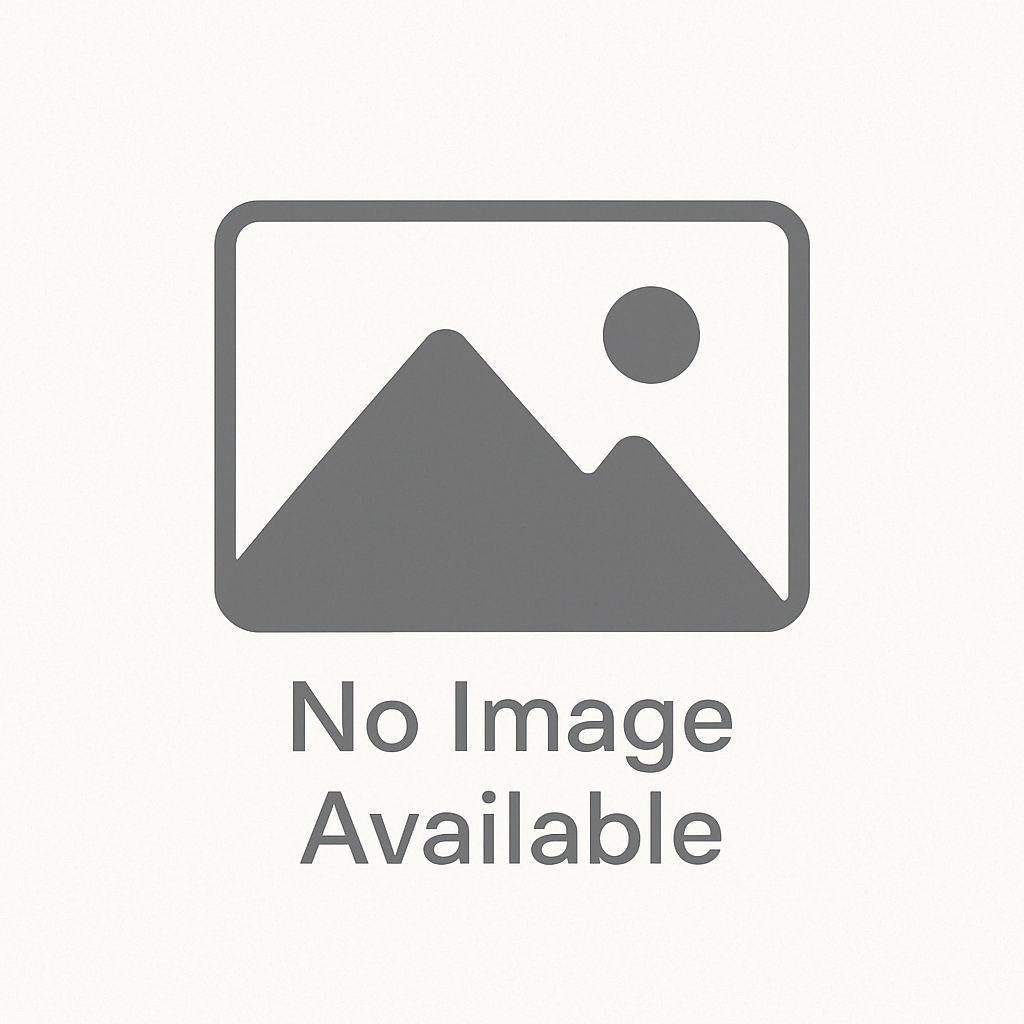
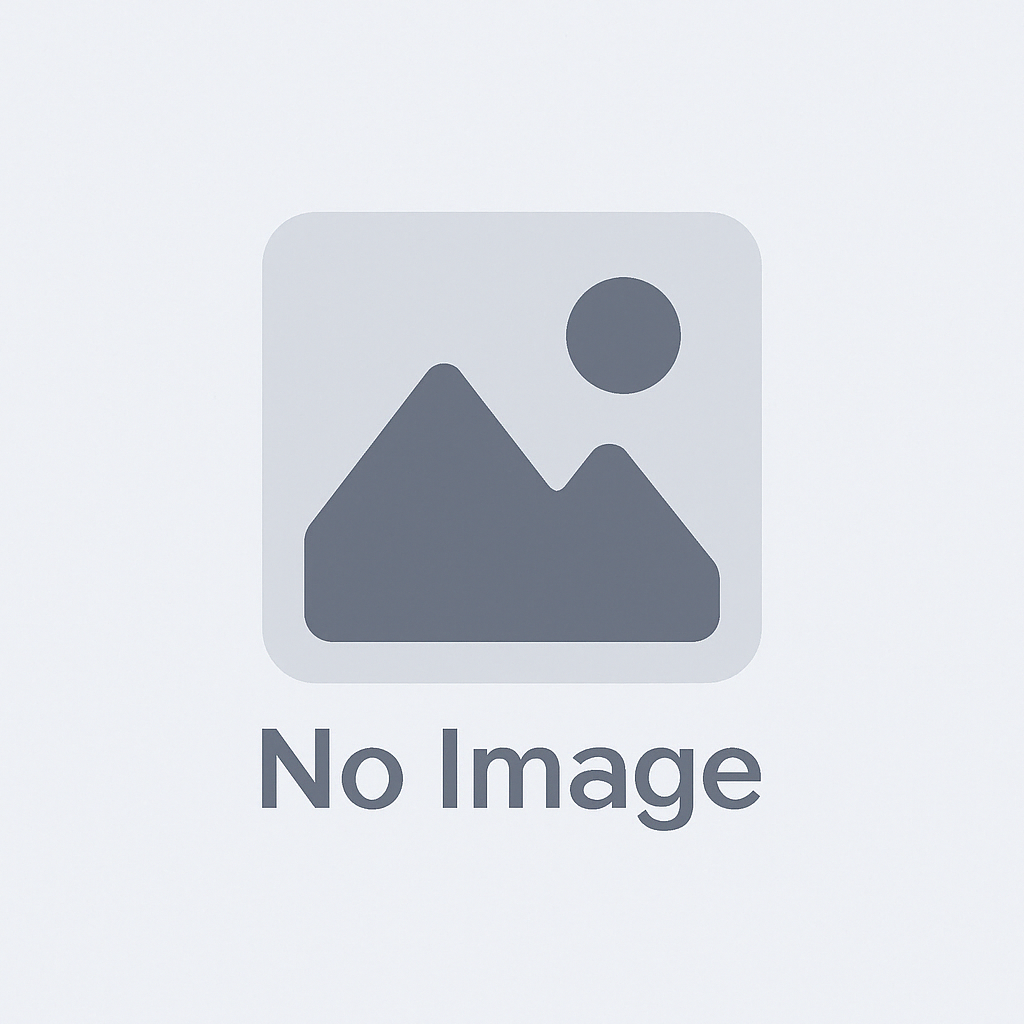
feat: 일정 및 리뷰 카드용 배경 대체 이미지 적용

Changed region(s): [[0.1875, 0.1875, 0.8125, 0.8438]]

diff --git a/loneleap-client/src/components/ItineraryCard.jsx b/loneleap-client/src/components/ItineraryCard.jsx
@@ -30,17 +30,19 @@ export default function ItineraryCard({ itinerary }) {
           <img
             src={itinerary.imageUrl}
             alt={`${location} 여행지 대표 이미지`}
-            className="w-full h-full object-cover"
+            className="w-full h-48 object-cover bg-gray-100"
             loading="lazy"
             onError={(e) => {
               e.target.onerror = null;
-              e.target.src = "/default-destination.jpg"; // 기본 이미지 경로
+              e.target.src = "/no_image.png"; // 기본 이미지 경로
             }}
           />
         ) : (
-          <div className="bg-gray-800 h-full flex items-center justify-center text-white text-sm">
-            [Destination Image]
-          </div>
+          <img
+            src="/images/no_image.png"
+            alt="기본 여행지 이미지"
+            className="w-full h-full object-contain bg-gray-100"
+          />
         )}
       </div>
 
